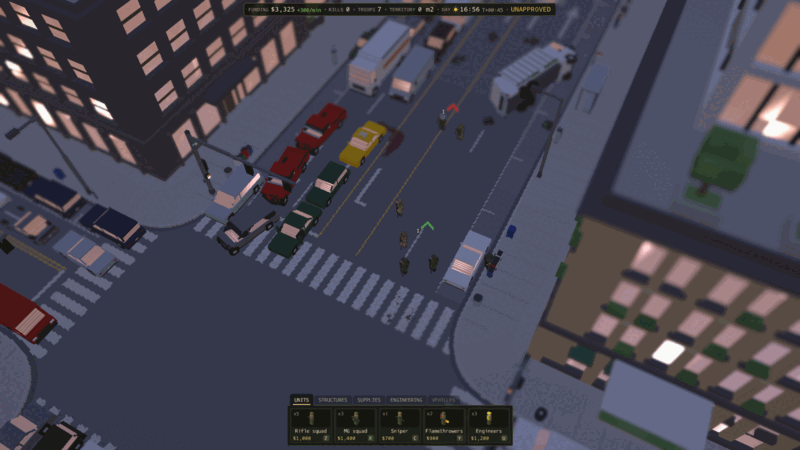
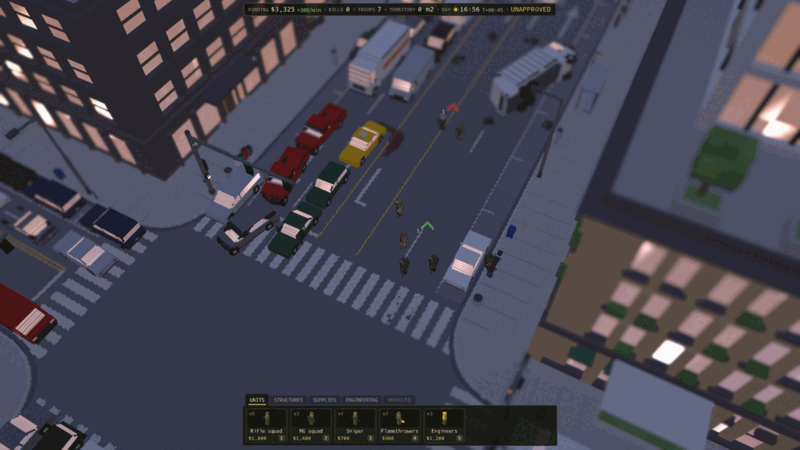
WS-D: b6_flamer_auto 10/0 with the corrected script; screenshots from that run
Claude-Session: https://claude.ai/code/session_01N78bVs9MY7cSjnYdRo3dHc

diff --git a/docs/OWNER_FEEDBACK_TRACKER.md b/docs/OWNER_FEEDBACK_TRACKER.md
@@ -12,7 +12,7 @@ Nothing is "done" until it is built, tested, and shown in a screenshot. Earlier 
 | 5 | Zombies can fall off roofs and smash into gore | B | open |
 | 6 | Roofs are like ground: place units, crates, towers, walls on roofs when there is space | B | open |
 | 7 | Sniper killed by a zombie on a roof did not reanimate (soldiers must turn on roofs too) | B | open |
-| 8 | Engineers and flamethrowers need autonomy: fix / clear what the situation needs, near their position, no wandering without orders | D (session C, branch sessionC/ws-d) | done (tested): idle engineers repair walls / gates / structures and re-seal breaches within 20 m of their post; flamethrowers burn the pile gassing soldiers first and defend pressed walls within 25 m; any order cancels (b6_engineer_auto 13/0, b6_flamer_auto). Not done: generator refuel, car siphoning (optional), status string in the HUD (WS-A: EngineerAI::status / FlameAI::status) |
+| 8 | Engineers and flamethrowers need autonomy: fix / clear what the situation needs, near their position, no wandering without orders | D (session C, branch sessionC/ws-d) | done (tested): idle engineers repair walls / gates / structures and re-seal breaches within 20 m of their post; flamethrowers burn the pile gassing soldiers first and defend pressed walls within 25 m; any order cancels (b6_engineer_auto 13/0, b6_flamer_auto 10/0). Not done: generator refuel, car siphoning (optional), status string in the HUD (WS-A: EngineerAI::status / FlameAI::status) |
 | 9 | Tower / generator / floodlight / fuel models in game are not the reviewed ones | orch | reviewed models switched on (timber tower; owner to pick timber / steel) |
 | 10 | Toxic gas = ugly particle blocks; must be voxel-volume gas clouds in the same style as the explosion / flame volumes | E (session B, branch sessionB/ws-e) | open |
 | 11 | Keys 1 2 3 4 5 6 7 for units (not Z X C V B) – intuitive layout | A | done (A): 1-7 = cards of the active tab (number on each card), Tab/Shift+Tab tabs, Ctrl+1-9 squads, . next squad, Esc tool > selection > pause menu (never quits), Q/E rotate only while placing; tests + docs updated |
